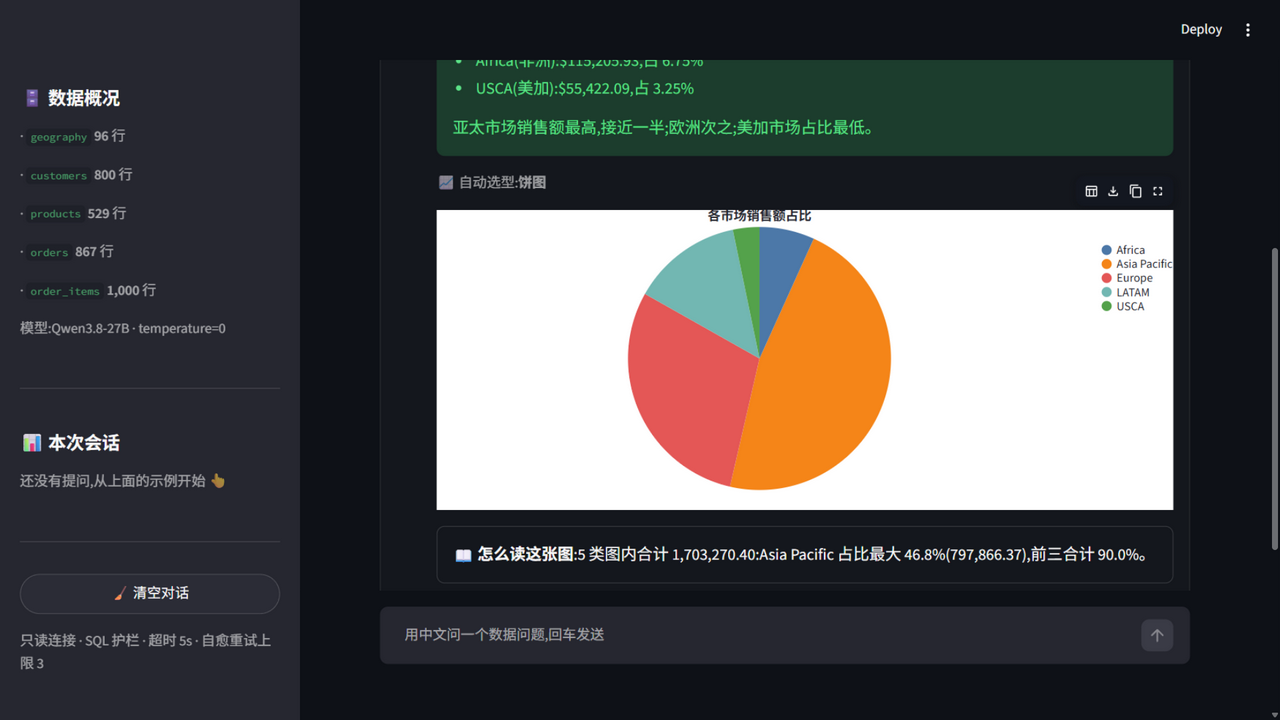
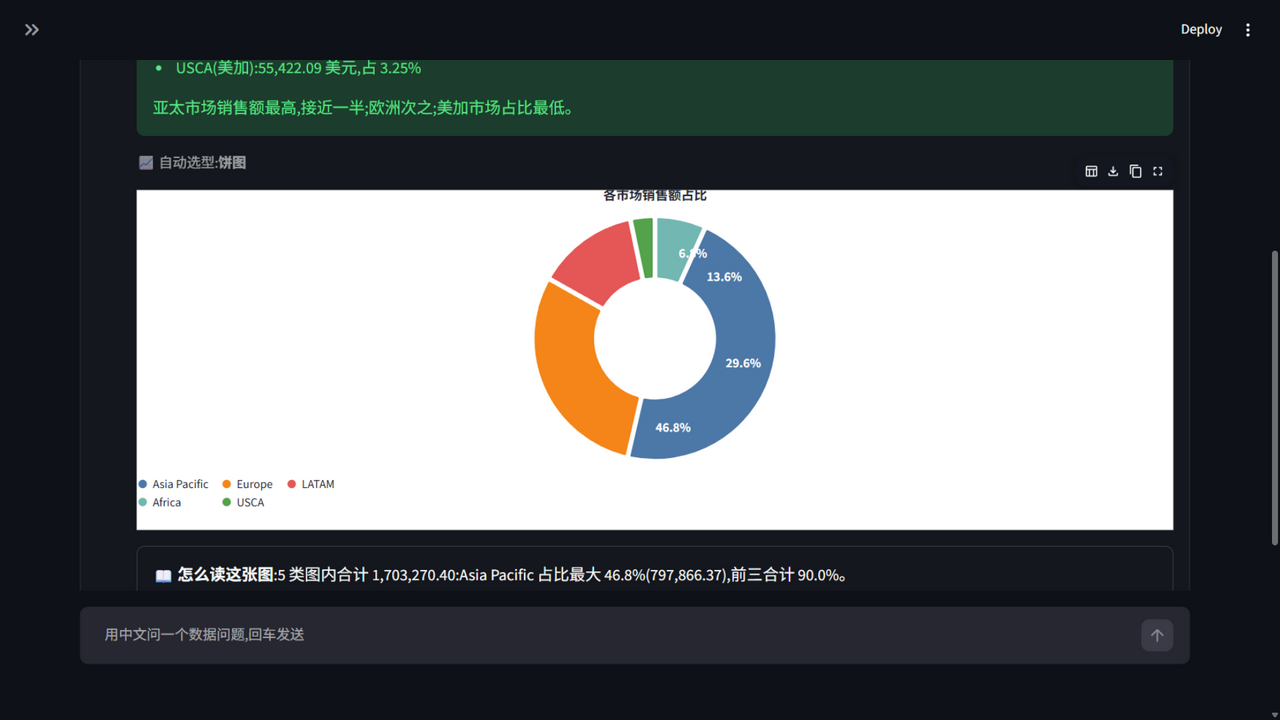
饼图升级:甜甜圈样式(内圈留白+白色描边+圆角缺口)+ 大扇区白色百分比标注(<6% 小扇区自动隐藏防挤压,标签本地算好)+ 图例沉底(不再贴右缘)+ config.padding 留边(顶层数字 padding 会炸 Streamlit vega 包装层 TypeError,四变体二分定位后改 config 等效实现并加回归测试)+ UI 选型标签兼容 layer 结构;真实应用验证渲染正常,README 饼图截图更新;测试 81 例

diff --git a/app/charts.py b/app/charts.py
@@ -205,6 +205,13 @@ def _plan_bar(question: str, rows: list[list[Any]], *, cat: _Col, nums: list[_Co
     chart_type = "pie" if pie else ("hbar" if n > 12 or max_label > 8 else "bar")
     if chart_type == "hbar":
         values = list(reversed(values))  # 横条 y 轴自下而上,反转后最大值在最上
+    if pie:
+        # 百分比标签的原料在本地算好(数字仍全部来自执行结果),扇区文字与 tooltip 直接用
+        total = sum(rec[m0] for rec in values)
+        for rec in values:
+            p = rec[m0] / total * 100 if total else 0.0
+            rec["_pct"] = round(p, 1)
+            rec["_label"] = f"{p:.1f}%"
     return {
         "type": chart_type, "dim": cat.name, "group": None,
         "measures": [nums[0].name] if pie else [m.name for m in nums], "values": values,
@@ -239,7 +246,10 @@ def _spec(question: str, p: dict) -> dict[str, Any]:
         "data": {"values": p["values"]},
         "config": {
             "background": "white",
-            "title": {"color": _TEXT},
+            # padding 放 config 而非顶层:Streamlit 的 vega 包装层对顶层数字 padding 会抛
+            # TypeError(实测二分定位),config.padding 效果相同且不经过它
+            "padding": 12,
+            "title": {"color": _TEXT, "offset": 10},
             "axis": {"labelColor": _TEXT, "titleColor": _TEXT, "gridColor": "#e6e8eb",
                      "domainColor": "#c8ccd0", "tickColor": "#c8ccd0"},
             "legend": {"labelColor": _TEXT, "titleColor": _TEXT},
@@ -301,13 +311,32 @@ def _spec(question: str, p: dict) -> dict[str, Any]:
         s["encoding"]["tooltip"] = tip
         s["encoding"] = {k: v for k, v in s["encoding"].items() if v is not None}
     elif t == "pie":
-        s["mark"] = {"type": "arc"}
-        s["height"] = 300
-        s["encoding"] = {
-            "theta": {"field": ms[0], "type": "quantitative"},
-            "color": {"field": dim, "type": "nominal", "title": None},
-            "tooltip": [{"field": dim, "type": "nominal"}, {"field": ms[0], "type": "quantitative"}],
-        }
+        # 甜甜圈 + 扇区百分比标签:占比一眼可读,小切片(<6%)不标注防挤压;
+        # 图例沉底,标题/图例由 config.padding 留出边缘呼吸空间
+        s["height"] = 340
+        s["layer"] = [
+            {
+                "mark": {"type": "arc", "innerRadius": 60, "cornerRadius": 2,
+                         "stroke": "#ffffff", "strokeWidth": 2, "padAngle": 0.02},
+                "encoding": {
+                    "theta": {"field": ms[0], "type": "quantitative"},
+                    "color": {"field": dim, "type": "nominal", "title": None, "sort": None,
+                              "legend": {"orient": "bottom", "columns": 3}},
+                    "tooltip": [{"field": dim, "type": "nominal"},
+                                {"field": ms[0], "type": "quantitative"},
+                                {"field": "_label", "type": "nominal", "title": "占比"}],
+                },
+            },
+            {
+                "mark": {"type": "text", "radius": 92, "fontSize": 11.5,
+                         "fontWeight": 600, "color": "#ffffff"},
+                "encoding": {
+                    "theta": {"field": ms[0], "type": "quantitative"},
+                    "text": {"condition": {"test": "datum._pct >= 6", "field": "_label"},
+                             "value": ""},
+                },
+            },
+        ]
     else:  # scatter
         s["mark"] = {"type": "point", "filled": True, "opacity": 0.7}
         s["height"] = 320

diff --git a/tests/test_charts.py b/tests/test_charts.py
@@ -4,6 +4,8 @@ from __future__ import annotations
 
 import json
 
+import pytest
+
 from app.charts import build_chart
 
 
@@ -37,9 +39,13 @@ def test_hbar_when_long_labels():
 
 def test_pie_when_question_asks_share():
     spec, reading = build_chart("各市场销售额占比", *_bar_table())
-    assert spec["mark"]["type"] == "arc"
-    assert spec["encoding"]["theta"]["field"] == "total"
-    assert "占比最大" in reading and "60.1%" in reading  # 1815/3020
+    arc = spec["layer"][0]  # 甜甜圈:第一层 arc,第二层扇区百分比文字
+    assert arc["mark"]["type"] == "arc" and arc["mark"]["innerRadius"] == 60
+    assert arc["encoding"]["theta"]["field"] == "total"
+    assert spec["layer"][1]["mark"]["type"] == "text"
+    labels = {r["market"]: r["_label"] for r in spec["data"]["values"]}
+    assert labels["EU"] == "60.1%"  # 1815/3020,标签在本地算好
+    assert "占比最大" in reading and "60.1%" in reading
 
 
 def test_no_pie_without_share_keyword():
@@ -83,8 +89,13 @@ def test_pie_ignores_extra_pct_column():
     rows = [["Asia Pacific", 797866.37, 46.72], ["Europe", 503568.21, 29.49],
             ["LATAM", 231207.8, 13.54], ["Africa", 115205.93, 6.75], ["USCA", 55422.09, 3.25]]
     spec, reading = build_chart("各市场销售额占比", cols, rows)
-    assert spec["mark"]["type"] == "arc"
-    assert spec["encoding"]["theta"]["field"] == "sales"
+    arc = spec["layer"][0]
+    assert arc["mark"]["type"] == "arc"
+    assert arc["encoding"]["theta"]["field"] == "sales"
+    # 小切片(USCA 3.3%)不标注的条件 + 本地算好的占比标签都在 spec 里
+    cond = spec["layer"][1]["encoding"]["text"]["condition"]
+    assert cond["test"] == "datum._pct >= 6"
+    assert all("_label" in r for r in spec["data"]["values"])
     assert "图内合计" in reading and "占比最大" in reading
 
 
@@ -202,6 +213,19 @@ def test_spec_pins_readable_text_colors():
     cfg = spec["config"]
     assert cfg["background"] == "white"
     assert cfg["title"]["color"] == cfg["axis"]["labelColor"] == cfg["legend"]["labelColor"] == "#262730"
+
+
+@pytest.mark.parametrize("question,cols,rows", [
+    ("各市场销售额", *_bar_table()),
+    ("各市场销售额占比", *_bar_table()),
+    ("2014 年按月销售额趋势是怎样的?",
+     ["月份", "sales"], [["2014-01", 100], ["2014-02", 200], ["2014-03", 150]]),
+])
+def test_spec_has_no_toplevel_padding(question, cols, rows):
+    """Streamlit 包装层对顶层数字 padding 抛 TypeError(实测定位),padding 必须放 config。"""
+    spec, _ = build_chart(question, cols, rows)
+    assert "padding" not in spec
+    assert spec["config"]["padding"] == 12
 
 
 # ---------- service 集成 ----------

diff --git a/app/ui.py b/app/ui.py
@@ -94,7 +94,10 @@ def _render(resp: AskResponse) -> None:
         _badges(resp)
     if resp.row_count and not single:
         if resp.chart_spec:
-            label = _CHART_LABEL.get(resp.chart_spec["mark"]["type"], "图表")
+            # 饼图是 layer 结构(arc + 百分比文字),其余图型直接有 mark
+            spec = resp.chart_spec
+            mark_type = spec.get("mark", {}).get("type") or spec.get("layer", [{}])[0].get("mark", {}).get("type", "")
+            label = _CHART_LABEL.get(mark_type, "图表")
             st.caption(f"📈 自动选型:**{label}**")
             # theme=None:关闭 Streamlit 的 vega 主题接管(深色模式下它会把文字刷成浅色,
             # 叠在 spec 自带的白底上看不清);spec 内已显式钉死深色文字,双保险

diff --git a/notes/pitfalls.md b/notes/pitfalls.md
@@ -59,3 +59,8 @@
 ## 2026-09-13 · 外部评审三轮
 
 - **无界状态是进程内缓存器的隐藏雷** → 按 IP 建字典的固定窗口限流,正常流量永远只有几十个键,被伪造来源一打就是无界增长——任何"key 进字典"的设计都要回答"谁负责删";这里用规模阈值 + 锁内惰性清扫过期窗口兜底,规模再大就该换 Redis/网关而不是继续加代码。
+
+## 2026-09-13 · 饼图升级踩坑(Streamlit vega 包装层)
+
+- **Streamlit 的 vega 包装层对顶层数字 padding 抛 TypeError** → 图表 spec 加 `"padding": 16` 后整卡渲染崩(vega-lite 5.22 独立编译同一 spec 完全合法);四变体二分(去 padding/去文字层/去描边/去 tooltip)一轮锁定 padding,tooltip 二轮排除 → 改放 `config.padding`(等效且不经过包装层),并加回归测试断言 spec 无顶层 padding;结论:**三方(vega-lite 官方/本地编译/Streamlit 包装)对 spec 的接受面不一致,以目标渲染器实测为准**。
+- **服务重启后旧标签是僵尸 DOM** → 重启 Streamlit 后在未刷新的标签里点按钮、看报错,把"已修复"误判成"还在坏";排查半天最后发现服务端日志无异常、真实 spec 在干净页面渲染正常 → 验证前必须 reload,以服务端日志和新鲜 DOM 为准,别信断线前的页面。
